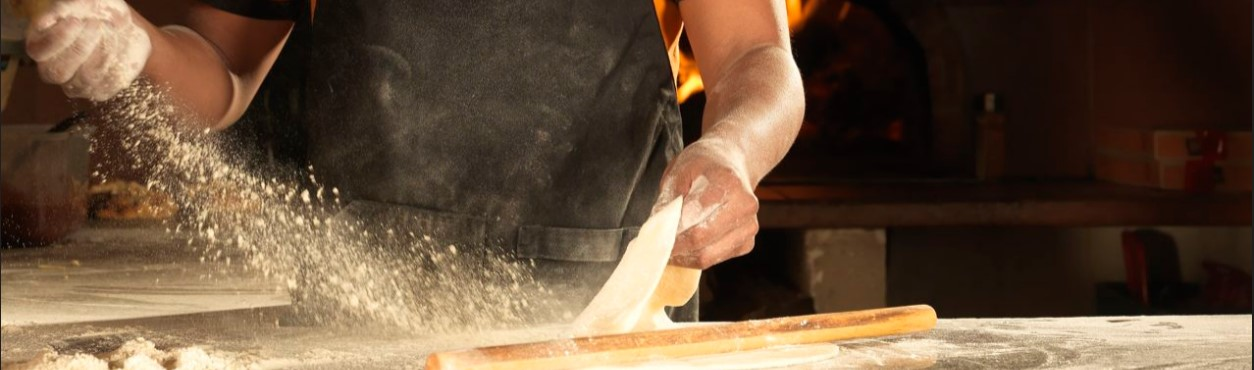
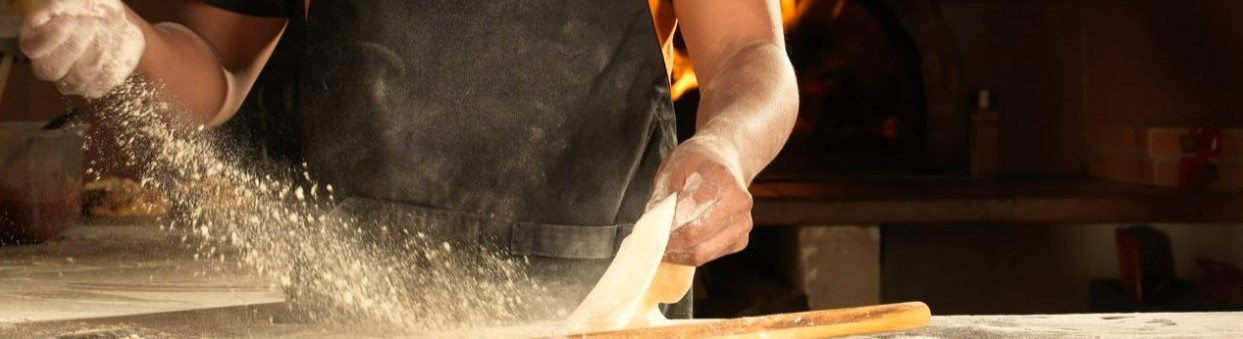
Entrega

diff --git a/html/horarios.html b/html/horarios.html
@@ -8,6 +8,7 @@
     <title>Horarios</title>
     <link href="https://cdn.jsdelivr.net/npm/bootstrap@5.2.1/dist/css/bootstrap.min.css" rel="stylesheet" integrity="sha384-iYQeCzEYFbKjA/T2uDLTpkwGzCiq6soy8tYaI1GyVh/UjpbCx/TYkiZhlZB6+fzT" crossorigin="anonymous">
     <link rel="stylesheet" href="../CSS/styles.css">
+    <link rel="stylesheet" href="../CSS/wh.css">   
 </head>
 <body>
 
@@ -22,7 +23,7 @@
         <div class="collapse navbar-collapse" id="menuNAv">
             <ul class="navbar-nav me-auto mb-2 mb-lg-0">
             <li class="nav-item">
-                <a class="nav-link active" aria-current="page" href="../indexProject5.html">Home</a>
+                <a class="nav-link active" aria-current="page" href="../index.html">Home</a>
             </li>
             <li class="nav-item">
                 <a class="nav-link" href="nosotros.html"">Nosotros</a>
@@ -44,7 +45,7 @@
     <div id="carouselExampleSlidesOnly" class="carousel slide" data-bs-ride="carousel">
         <div class="carousel-inner">
           <div class="carousel-item active">
-            <img src="../imagenes/barra.jpg" class="d-block w-100" alt="...">
+            <img src="../imagenes/amasando3.png" class="d-block w-100" alt="...">
           </div>
           <div class="carousel-item">
             <img src="../imagenes/logo2.jpg" class="d-block w-100" alt="...">
@@ -59,14 +60,22 @@
     <div class="horarios"> 
         <h1>Horarios</h1>
         <div class="dias">   
-        <ul><li><a>lunes</a></li>
-            <li><a>martes</a></li>
-            <li><a>miercoles</a></li>
-            <li><a>jueves</a></li>
-            <li><a>viernes</a></li>
-            <li><a>de  18hs a 00hs</a></li>
+        <ul><li><a>lunes (de 18hs a 00hs)</a></li>
+            <li><a>martes (de 18hs a 00hs)</a></li>
+            <li><a>miercoles (de 18hs a 00hs)</a></li>
+            <li><a>jueves (de 18hs a 00hs)</a></li>
+            <li><a>viernes (de 18hs a 00hs)</a></li>
+            <li><a>sabado (de 18hs a 00hs)</a></li>
         </ul>
         </div>  
+    </div>
+
+    <div>
+        <a href="https://api.whatsapp.com/send?phone=554896641128" class="btn-wsp-f" target="_blank" >
+          <i class="icon-whatsapp"></i>
+         </a>     
+    </div>
+    
     </div>
 <script src="https://cdn.jsdelivr.net/npm/bootstrap@5.2.1/dist/js/bootstrap.bundle.min.js" integrity="sha384-u1OknCvxWvY5kfmNBILK2hRnQC3Pr17a+RTT6rIHI7NnikvbZlHgTPOOmMi466C8" crossorigin="anonymous"></script>    
 </body>

diff --git a/SCSS/styles.scss b/SCSS/styles.scss
@@ -25,33 +25,38 @@ body{
     box-sizing: border-box;
 }
 
-
-.horarios {   
-    display: flex;
-    align-items: center;
-    flex-direction: column;
-
-    .dias{
-        font-family: $font-letra-pacifico;
-    }
-
-    h1{
-        font-family: $font-letra-pacifico;
-        font-size: $size-titulo;
-    }
-
-    ul{
-        color: black;
-        text-decoration: none;
-        li{
+.contenedor_horarios {
+    background-color: #fff;
+    height: 100vh;
+    .horarios {   
+        display: flex;
+        align-items: center;
+        flex-direction: column;
+    
+        .dias{
+            font-family: $font-letra-pacifico;
+        }
+    
+        h1{
+            font-family: $font-letra-pacifico;
+            font-size: $size-titulo;
+        }
+    
+        ul{
+            color: black;
             text-decoration: none;
-            a{
-                font-size: $size-item;
+            li{
+                text-decoration: none;
+                a{
+                    font-size: $size-item;
+                }
+              
             }
-          
         }
     }
 }
+
+
 
 .contenedor_nosotros{
     background-image: $fondo-nosotros;

diff --git a/CSS/styles.css b/CSS/styles.css
@@ -14,22 +14,25 @@ body {
   padding: 0;
   box-sizing: border-box; }
 
-.horarios {
-  display: flex;
-  align-items: center;
-  flex-direction: column; }
-  .horarios .dias {
-    font-family: "Pacifico", cursive; }
-  .horarios h1 {
-    font-family: "Pacifico", cursive;
-    font-size: 2.3em; }
-  .horarios ul {
-    color: black;
-    text-decoration: none; }
-    .horarios ul li {
+.contenedor_horarios {
+  background-color: #fff;
+  height: 100vh; }
+  .contenedor_horarios .horarios {
+    display: flex;
+    align-items: center;
+    flex-direction: column; }
+    .contenedor_horarios .horarios .dias {
+      font-family: "Pacifico", cursive; }
+    .contenedor_horarios .horarios h1 {
+      font-family: "Pacifico", cursive;
+      font-size: 2.3em; }
+    .contenedor_horarios .horarios ul {
+      color: black;
       text-decoration: none; }
-      .horarios ul li a {
-        font-size: 1.3em; }
+      .contenedor_horarios .horarios ul li {
+        text-decoration: none; }
+        .contenedor_horarios .horarios ul li a {
+          font-size: 1.3em; }
 
 .contenedor_nosotros {
   background-image: url("../imagenes/fondo4.png");

diff --git a/html/nosotros.html b/html/nosotros.html
@@ -21,7 +21,7 @@
         <div class="collapse navbar-collapse" id="menuNAv">
             <ul class="navbar-nav me-auto mb-2 mb-lg-0">
             <li class="nav-item">
-                <a class="nav-link active" aria-current="page" href="../indexProject5.html">Home</a>
+                <a class="nav-link active" aria-current="page" href="../index.html">Home</a>
             </li>
             <li class="nav-item">
                 <a class="nav-link" href="nosotros.html">Nosotros</a>
@@ -80,7 +80,7 @@
             <a href="https://api.whatsapp.com/send?phone=554896641128" class="btn-wsp-f" target="_blank" >
               <i class="icon-whatsapp"></i>
              </a>     
-          </div>
+        </div>
 
     </div>
     <script src="https://cdn.jsdelivr.net/npm/bootstrap@5.2.1/dist/js/bootstrap.bundle.min.js" integrity="sha384-u1OknCvxWvY5kfmNBILK2hRnQC3Pr17a+RTT6rIHI7NnikvbZlHgTPOOmMi466C8" crossorigin="anonymous"></script>    

diff --git a/html/menu.html b/html/menu.html
@@ -22,7 +22,7 @@
         <div class="collapse navbar-collapse" id="menuNav">
             <ul class="navbar-nav me-auto mb-2 mb-lg-0">
             <li class="nav-item">
-                <a class="nav-link active" aria-current="page" href="../indexProject5.html">Home</a>
+                <a class="nav-link active" aria-current="page" href="../index.html">Home</a>
             </li>
             <li class="nav-item">
                 <a class="nav-link" href="nosotros.html">Nosotros</a>

diff --git a/html/contacto.html b/html/contacto.html
@@ -20,7 +20,7 @@
       <div class="collapse navbar-collapse" id="menuNAv">
           <ul class="navbar-nav me-auto mb-2 mb-lg-0">
             <li class="nav-item">
-              <a class="nav-link active" aria-current="page" href="../indexProject5.html">Home</a>
+              <a class="nav-link active" aria-current="page" href="../index.html">Home</a>
             </li>
             <li class="nav-item">
               <a class="nav-link" href="nosotros.html">Nosotros</a>
